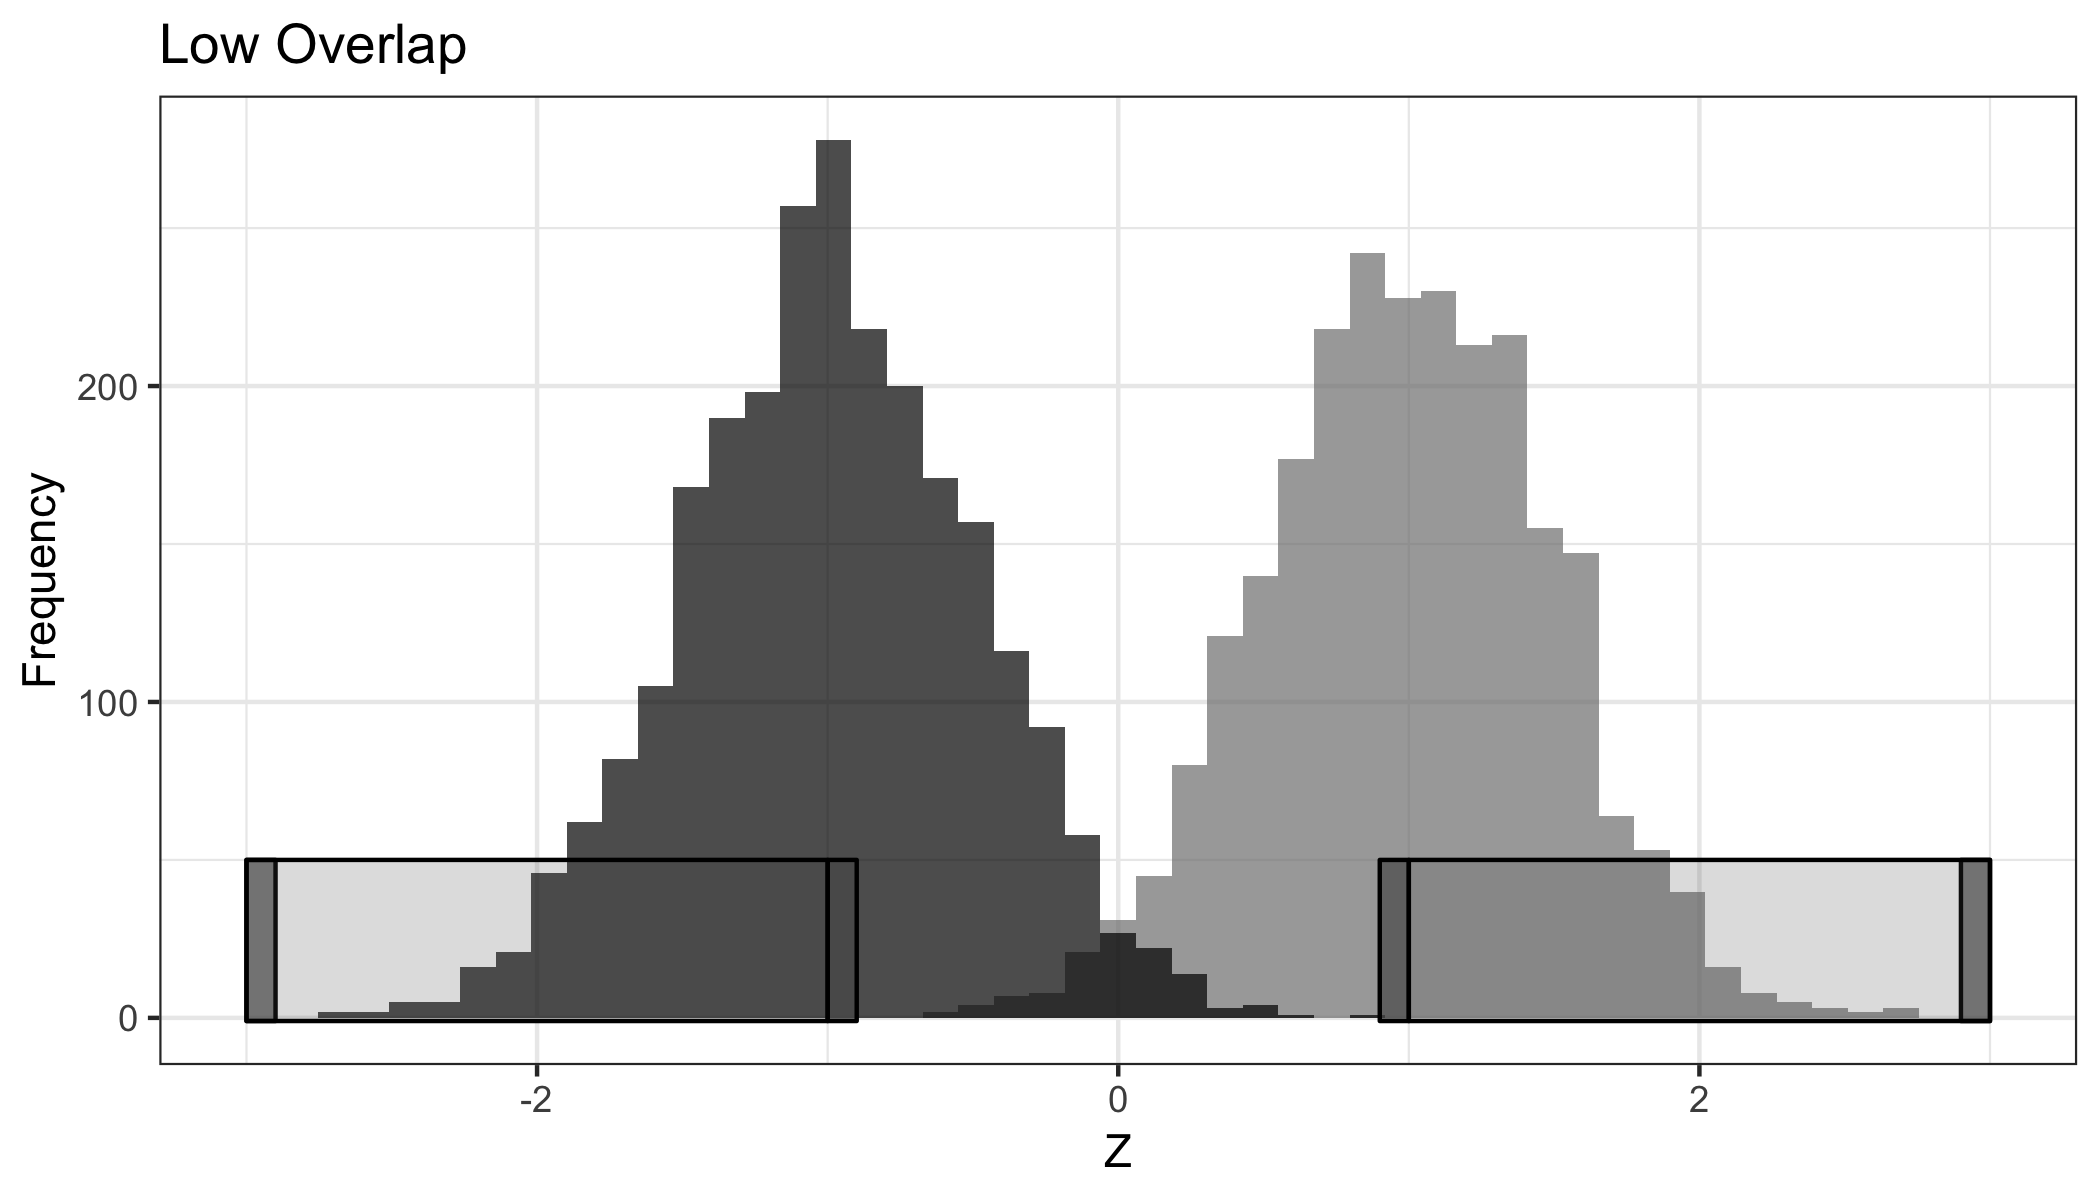
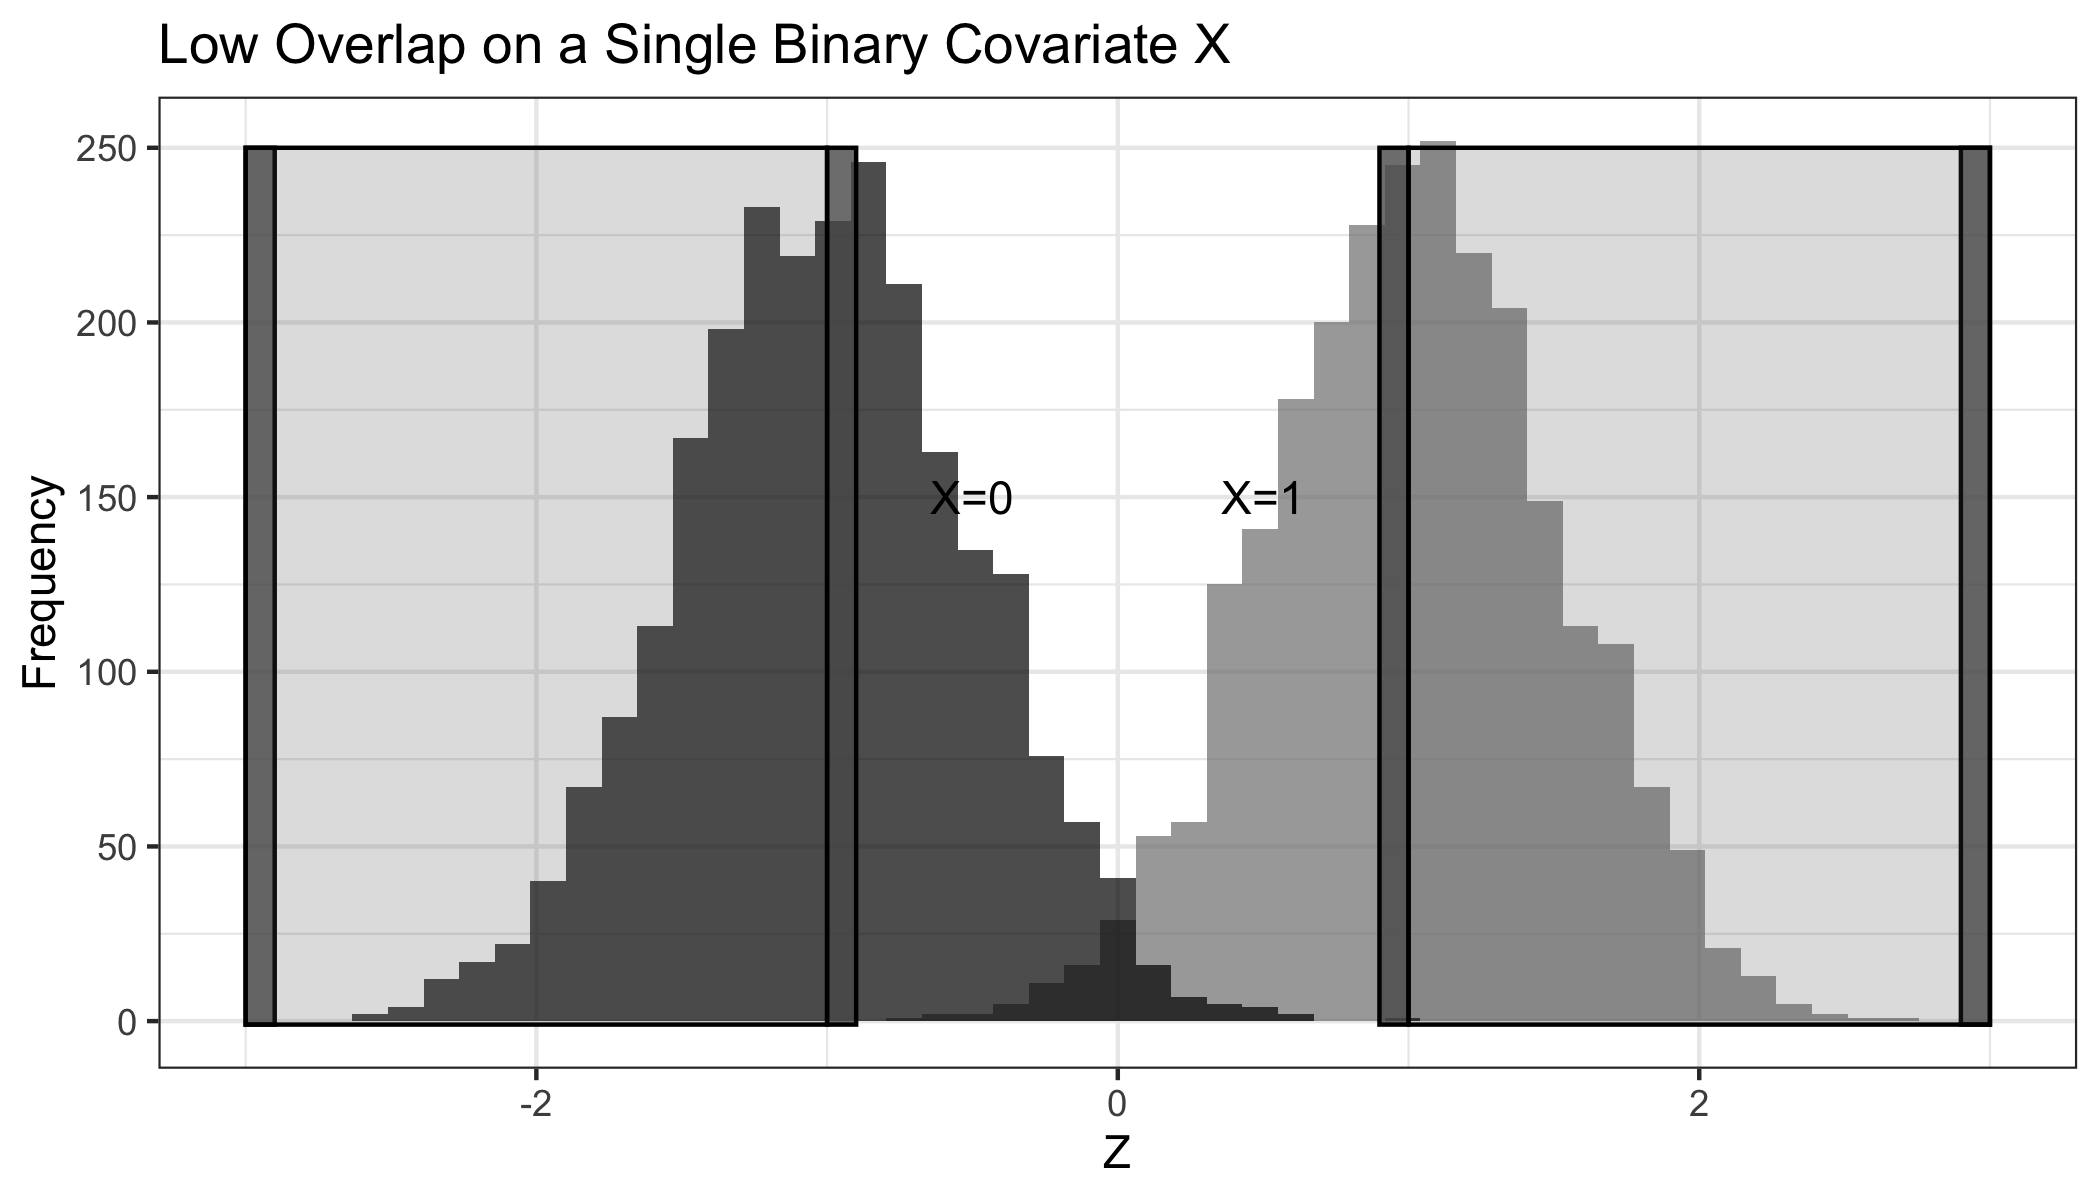
added code to output more complete summary table and better overlap figure per: reviewer comments

diff --git a/summaryStatsNoparoleCounty.tex b/summaryStatsNoparoleCounty.tex
@@ -1,0 +1,34 @@
+% latex table generated in R 3.6.1 by xtable 1.8-4 package
+% Fri Jan 17 11:16:37 2020
+\begin{table}[ht]
+\centering
+\begin{tabular}{rrr}
+  \hline
+ & 1 & 2 \\ 
+  \hline
+visitslastlocyn1 & 0.00 & 1.00 \\ 
+  recidivate & 0.50 & 0.45 \\ 
+  currentTime & 195.11 & 155.17 \\ 
+  county3 & 0.31 & 0.33 \\ 
+  county4 & 0.07 & 0.09 \\ 
+  county5 & 0.06 & 0.07 \\ 
+  county6 & 0.08 & 0.09 \\ 
+  county7 & 0.01 & 0.01 \\ 
+  county8 & 0.01 & 0.01 \\ 
+  lengthofstay & 360.50 & 452.89 \\ 
+  white & 0.37 & 0.48 \\ 
+  age & 35.89 & 32.49 \\ 
+  urban & 0.79 & 0.75 \\ 
+  married & 0.11 & 0.15 \\ 
+  mentalhealth & 0.17 & 0.13 \\ 
+  highschool & 0.56 & 0.63 \\ 
+  violent & 0.22 & 0.28 \\ 
+  score & 25.53 & 22.81 \\ 
+  numberofvisits & 0.00 & 14.32 \\ 
+  custodylevel & 2.62 & 2.44 \\ 
+  priorarrests & 9.04 & 6.90 \\ 
+  priorincarcerations & 0.55 & 0.31 \\ 
+  misconducts & 0.72 & 0.55 \\ 
+   \hline
+\end{tabular}
+\end{table}
